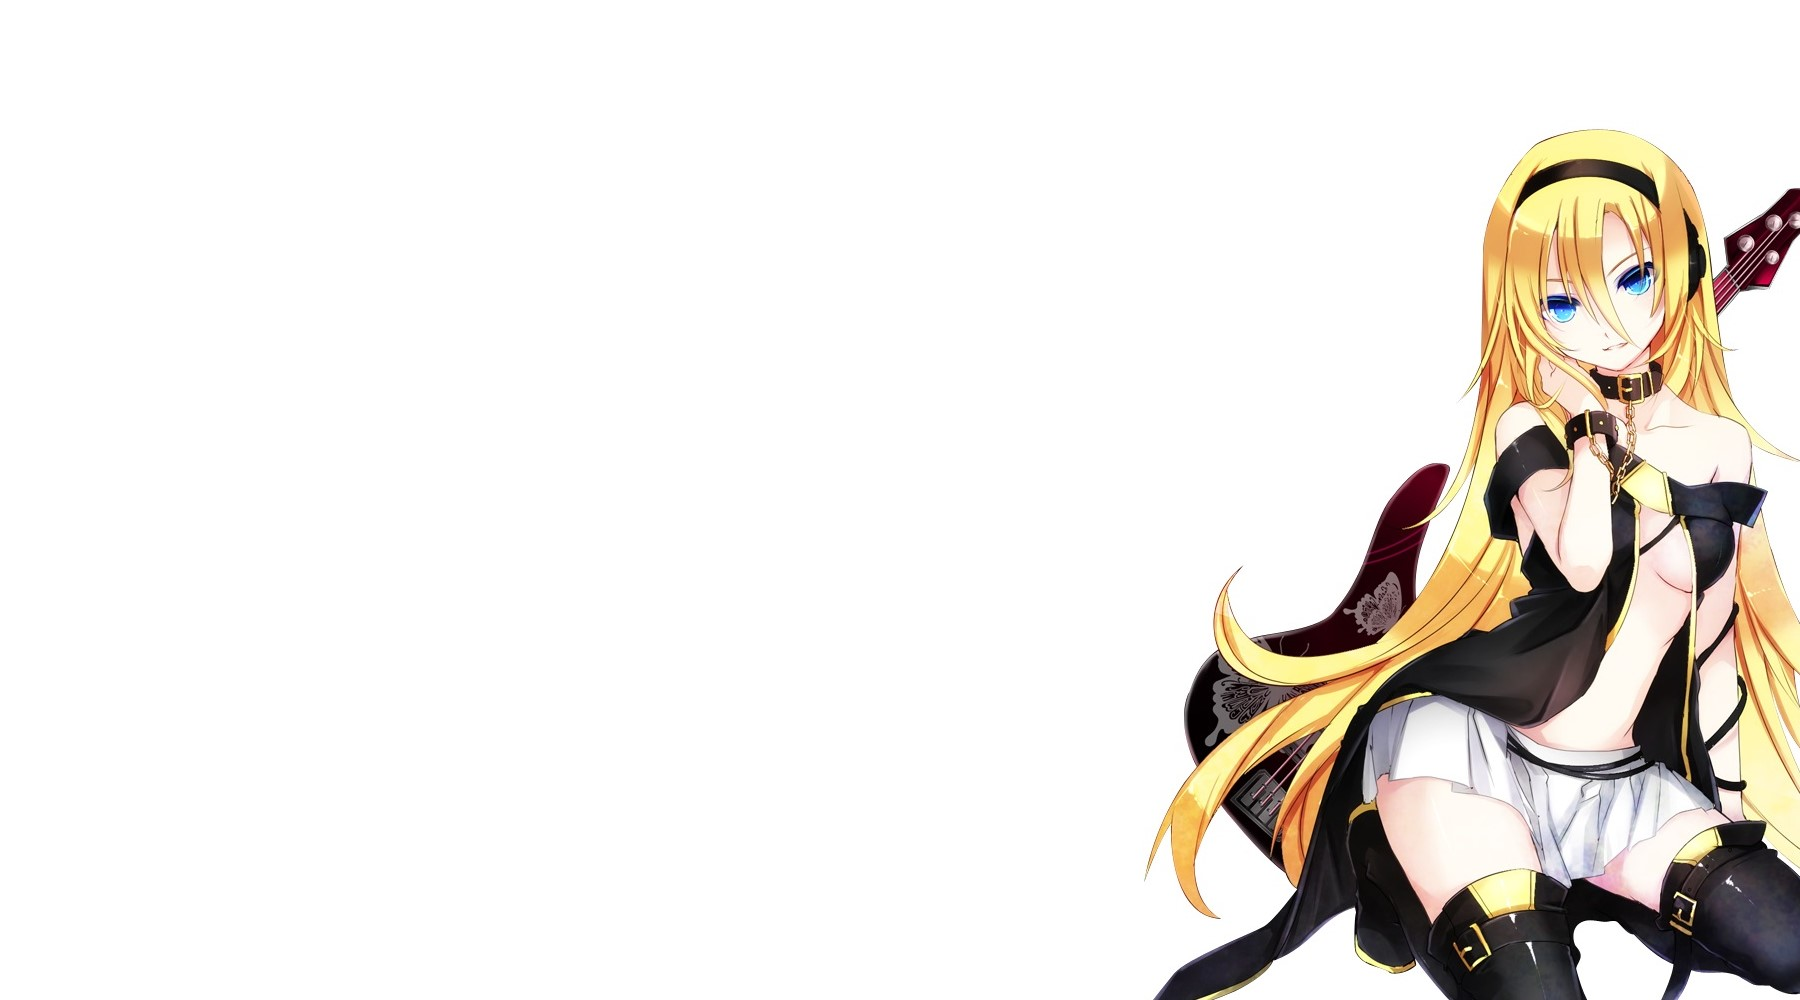
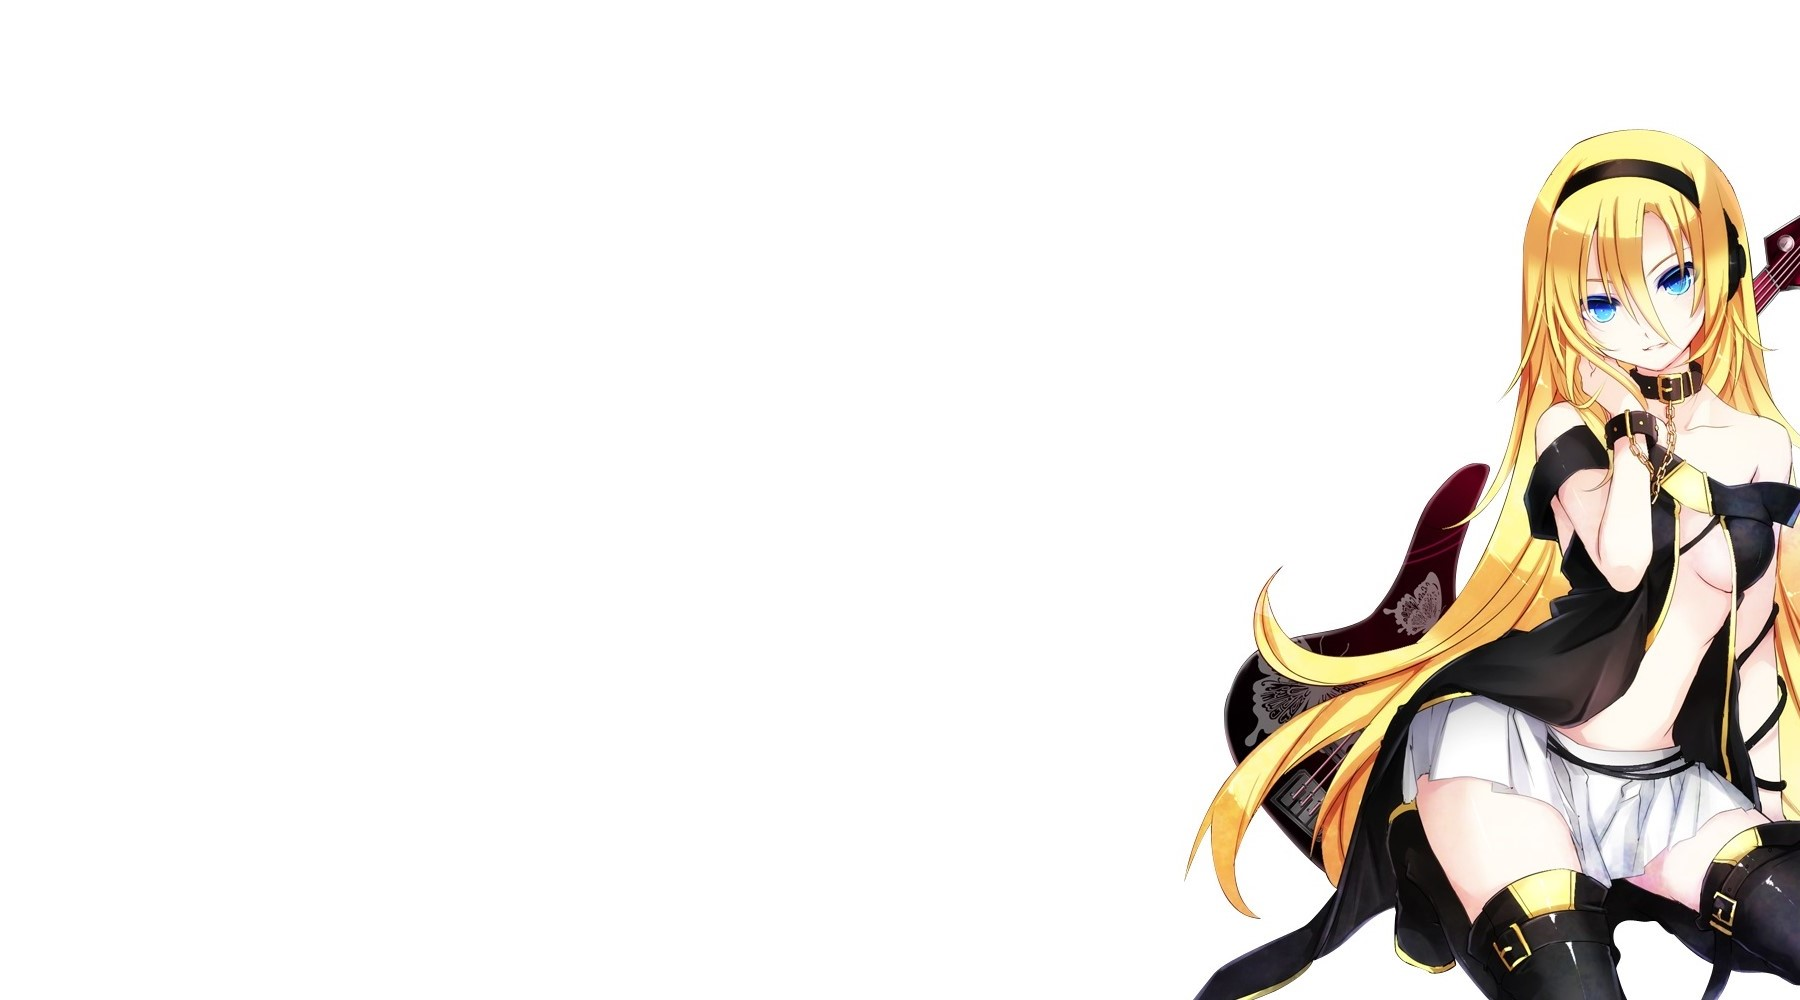
add and polish bgs for components

Changed region(s): [[0.6222, 0.124, 1.0, 1.0]]

diff --git a/src/app/koalibee/koalibee-player/koalibee-player.component.scss b/src/app/koalibee/koalibee-player/koalibee-player.component.scss
@@ -6,16 +6,16 @@ $control-size-s: 28px;
 
 #wrapper {
   padding-top: 12vh;
-  padding-bottom: 14vh;
-  min-height: 100%;
-  // background: url("../../../assets/images/");
-  // background-size: 82%;
-  // background-repeat: no-repeat;
-  // background-position-x: right;
-  // background-position-y: bottom;
-  // background-attachment: fixed;
+  padding-bottom: 10vh;
+  min-height: 101%;
+  background: url("../../../assets/images/bee-bg.jpg");
+  background-size: 73%;
+  background-repeat: no-repeat;
+  background-position-x: right;
+  background-position-y: bottom;
+  background-attachment: fixed;
   @include tablet {
-    // background-size: 80%;
+    background-size: 71%;
   }
   @include mobile-toggle {
     background: none;
@@ -132,6 +132,7 @@ section {
 
 #track {
   padding: 1rem;
+  padding-bottom: 0;
   #name {
     padding-left: 0.5rem;
     color: $primary;
@@ -186,11 +187,11 @@ section {
   margin-top: 0.5rem;
   padding: 1rem 4rem;
   background-image: linear-gradient(
-    rgba($color: $accent-lighten-3, $alpha: 0.25),
-    rgba($color: $accent-darken-3, $alpha: 0.25)
+    rgba($color: $accent-lighten-4, $alpha: 0.25),
+    rgba($color: $accent-darken-2, $alpha: 0.25)
   );
   border-radius: 86px;
-  box-shadow: -3px 3px 12px $accent;
+  box-shadow: -3px 3px 12px $accent-lighten-1;
   @include tablet {
     padding: 1rem 3rem;
   }

diff --git a/src/app/koalibee/koalibee-edit-album/koalibee-edit-album.component.scss b/src/app/koalibee/koalibee-edit-album/koalibee-edit-album.component.scss
@@ -5,14 +5,13 @@
   padding-top: 12vh;
   padding-bottom: 14vh;
   background: url("../../../assets/images/work-factory-bg.jpg");
-  background-size: 80%;
+  background-size: 78%;
   background-repeat: no-repeat;
   background-position-x: right;
-  background-position-y: top;
+  background-position-y: bottom;
   background-attachment: fixed;
   @include tablet {
-    background-size: 75%;
-    background-position-y: bottom;
+    background-size: 76%;
   }
   @include mobile-toggle {
     background: none;
